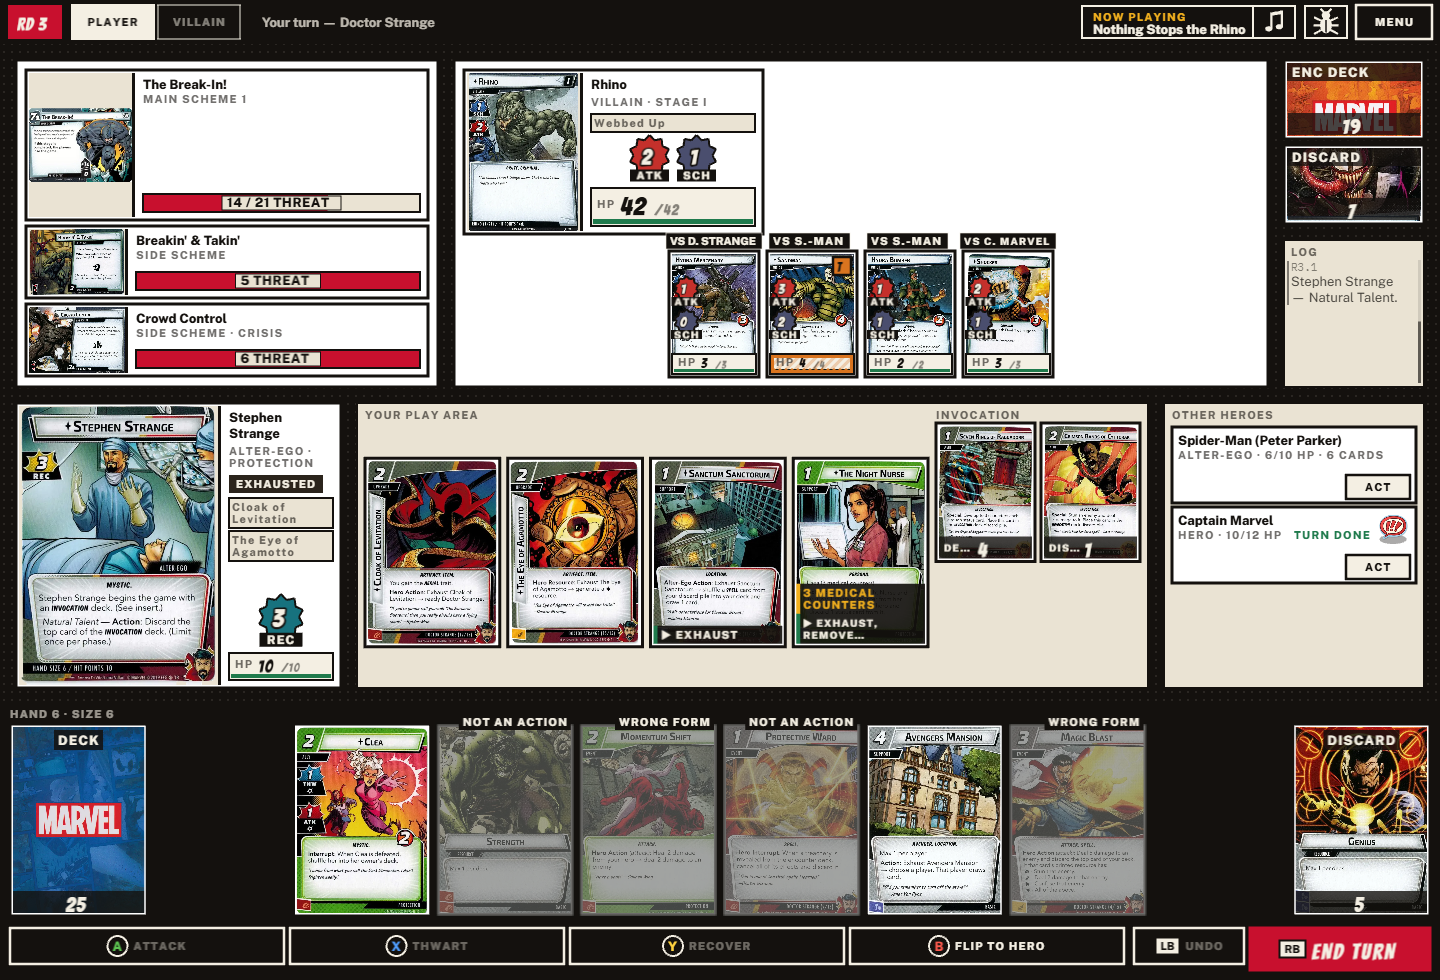
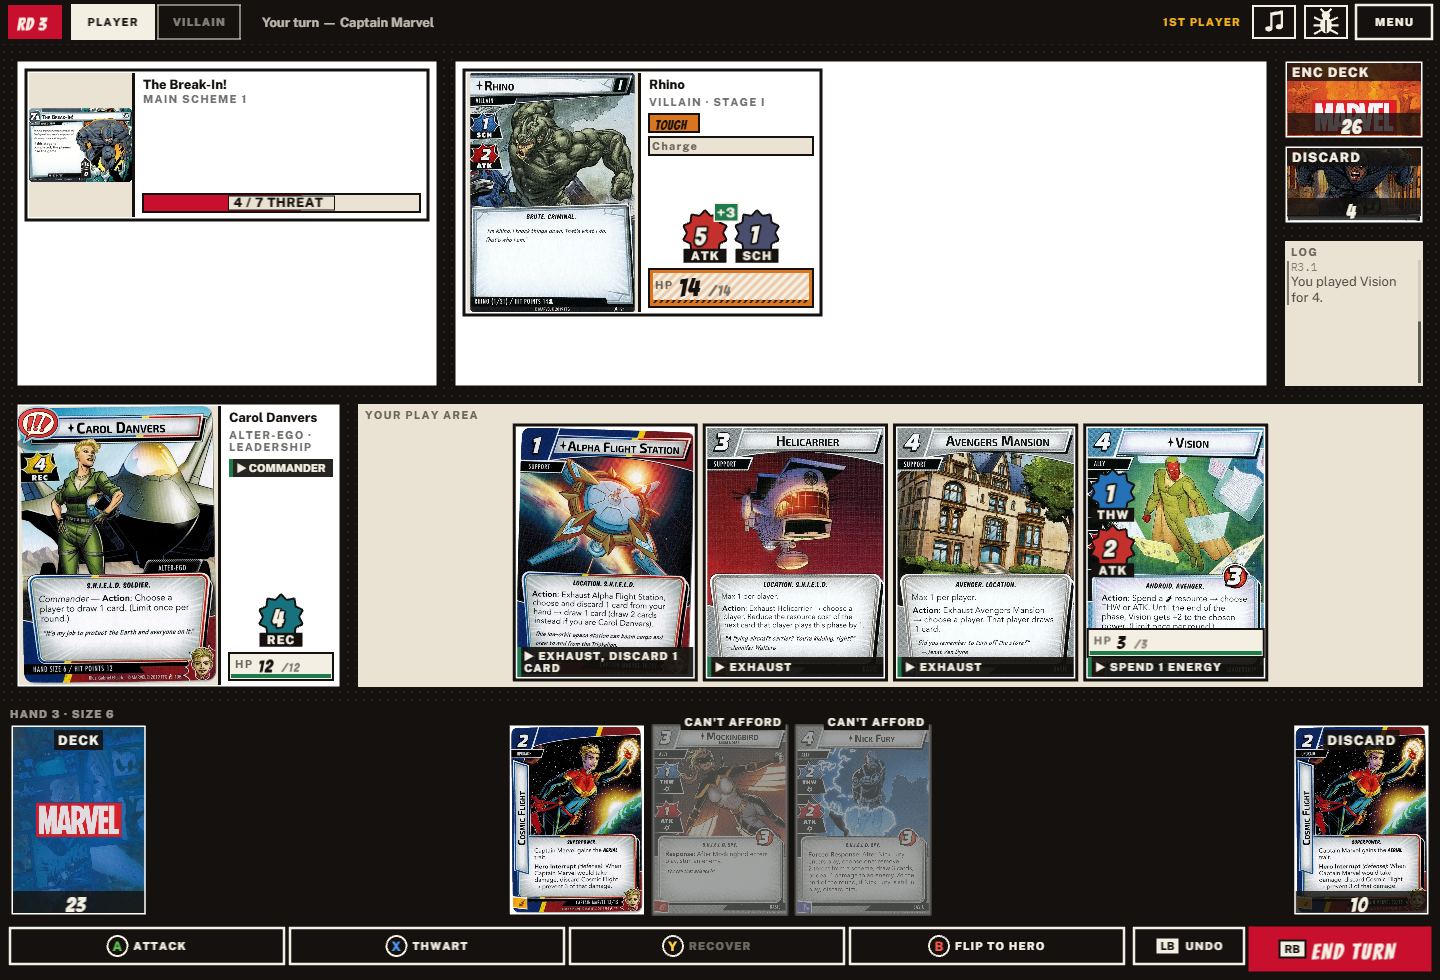
Dev fixture with five abilities in play; RT paging screenshots

diff --git a/packages/client/src/store/dev-many-abilities-game.ts b/packages/client/src/store/dev-many-abilities-game.ts
@@ -1,0 +1,94 @@
+/**
+ * The `?screen=board&fixture=abilities` dev jump (`scenes/boot-dev-jump.ts`): a real one-seat Rhino game stopped on
+ * Captain Marvel's own turn with five or more usable Action abilities on cards in play, so the pad's RT layer has a
+ * second page (A / X / Y / B take four, LB / RB turn the page). `dev-many-abilities-game.test.ts` proves it.
+ *
+ * Played forward through the store with `SessionConfig.stack` and the engine's own example commands, never a state
+ * edit. Each turn plays one of the wanted supports / allies paid for with the other cards in hand, then ends the turn.
+ */
+import type { GameState } from "@mc/engine";
+import type { SessionConfig } from "../engine/host.js";
+import { codeOf, ids, nextTurn } from "./dev-game-steps.js";
+import type { SessionStore } from "./session-store.js";
+
+/** Alpha Flight Station, Helicarrier, Avengers Mansion, Vision: each carries an Action the player can use. */
+const WANTED = new Set(["01015", "01092", "01091", "01068"]);
+/** Usable abilities needed before the game stops (the RT layer shows four a page). */
+export const MANY_ABILITIES = 5;
+
+export const MANY_ABILITIES_CONFIG: SessionConfig = {
+  scenarioId: "rhino",
+  difficulty: "standard",
+  players: [{ starterDeckId: "core-captain-marvel-leadership" }],
+  seed: 7,
+  stack: {
+    players: {
+      0: ids(
+        // Turn 1: Alpha Flight Station and Helicarrier, paid for with the four fillers.
+        "01015",
+        "01092",
+        "01012",
+        "01012",
+        "01012",
+        "01013",
+        // Turn 2: Avengers Mansion and an Energy Channel.
+        "01091",
+        "01018",
+        "01013",
+        "01013",
+        "01014",
+        "01014",
+        // Turn 3: Vision, if five are not usable yet.
+        "01068",
+        "01017",
+        "01017",
+        "01083",
+        "01084",
+        "01085",
+      ),
+    },
+    // Boost cards with no icons (Breakin' & Takin' and Hydra Mercenary reveals follow), so the scheme creeps slowly.
+    encounter: ids("01104", "01105", "01104", "01105"),
+  },
+};
+
+/** How many usable abilities the engine lists for the active player right now. */
+export const usableAbilityCount = (store: SessionStore): number => {
+  const actions = store.state.legal?.actions;
+  return actions?.kind === "turn" ? actions.legal.filter((entry) => entry.action.kind === "useAbility").length : 0;
+};
+
+/** The wanted cards in play (the stop condition and the test read the same thing). */
+export const wantedInPlay = (game: GameState): number =>
+  game.players[0]!.playArea.filter((id) => WANTED.has(codeOf(game, id))).length;
+
+/** Starts the game and plays it forward to Captain Marvel's turn with at least `MANY_ABILITIES` abilities usable. */
+export async function startManyAbilitiesGame(store: SessionStore): Promise<void> {
+  await store.start(MANY_ABILITIES_CONFIG);
+  for (let step = 0; step < 60; step++) {
+    const turn = await nextTurn(store);
+    const game = store.state.game;
+    if (!turn || !game) return;
+    if (usableAbilityCount(store) >= MANY_ABILITIES) return;
+    const me = game.players[0]!;
+    let played = false;
+    for (const entry of turn.legal) {
+      const action = entry.action;
+      if (action.kind !== "playCard" || entry.example.type !== "playCard") continue;
+      if (!WANTED.has(codeOf(game, action.instanceId))) continue;
+      // Pay with cards that are not wanted permanents first.
+      const others = me.hand
+        .filter((id) => id !== action.instanceId)
+        .sort((a, b) => Number(WANTED.has(codeOf(game, a))) - Number(WANTED.has(codeOf(game, b))));
+      for (let count = 0; count <= others.length && !played; count++) {
+        await store.dispatch({ ...entry.example, payment: others.slice(0, count).map((id) => ({ fromHand: id })) });
+        if (!store.state.error) played = true;
+      }
+      if (played) break;
+    }
+    if (played) continue;
+    const end = turn.legal.find((entry) => entry.action.kind === "endTurn");
+    if (!end) return;
+    await store.dispatch(end.example);
+  }
+}

diff --git a/packages/client/src/scenes/boot-dev-jump.ts b/packages/client/src/scenes/boot-dev-jump.ts
@@ -119,6 +119,28 @@ export async function devScreenJump(): Promise<{ readonly key: string; readonly 
   if (params.get("boardpad") === "1")
     notePadInput(detectPad("Xbox 360 Controller (STANDARD GAMEPAD Vendor: 045e Product: 028e)"));
   // `&padhold=lt|rt` (with `boardpad=1`): the board draws that hold layer's sheet as if the trigger were held.
+  // `&padfake=1`: a connected standard pad whose buttons the page can press, for screenshots of a held trigger and a
+  // bumper press: `__fakePad.buttons[7].value = 1` holds RT, `[5]` is RB (set `pressed` and `value`, then back).
+  if (params.get("padfake") === "1") {
+    const button = () => ({ pressed: false, touched: false, value: 0 });
+    const pad = {
+      connected: true,
+      id: "Xbox 360 Controller (STANDARD GAMEPAD Vendor: 045e Product: 028e)",
+      index: 0,
+      mapping: "standard",
+      timestamp: 0,
+      buttons: Array.from({ length: 17 }, button),
+      axes: [0, 0, 0, 0],
+    };
+    (globalThis as { __fakePad?: unknown }).__fakePad = pad;
+    Object.defineProperty(navigator, "getGamepads", {
+      value: () => {
+        pad.timestamp = performance.now();
+        return [pad];
+      },
+      configurable: true,
+    });
+  }
   const padHold = params.get("padhold");
   if (padHold === "lt" || padHold === "rt") (globalThis as { __devPadHold?: string }).__devPadHold = padHold;
 
@@ -375,6 +397,17 @@ export async function devScreenJump(): Promise<{ readonly key: string; readonly 
     if (!gameRunning(store)) {
       const { startCrowdedGame } = await import("../store/dev-crowded-game.js");
       await startCrowdedGame(store);
+    }
+    return { key: SCENES.board, data: {} };
+  }
+
+  // `&fixture=abilities`: Captain Marvel's turn with five or more usable abilities on the table, so the pad's RT layer
+  // has a second page (`store/dev-many-abilities-game.ts`).
+  if (screen === "board" && params.get("fixture") === "abilities") {
+    const { store } = appSession();
+    if (!gameRunning(store)) {
+      const { startManyAbilitiesGame } = await import("../store/dev-many-abilities-game.js");
+      await startManyAbilitiesGame(store);
     }
     return { key: SCENES.board, data: {} };
   }

diff --git a/packages/client/src/store/dev-many-abilities-game.test.ts b/packages/client/src/store/dev-many-abilities-game.test.ts
@@ -1,0 +1,16 @@
+import { describe, expect, test } from "vitest";
+import { LocalEngineHost } from "../engine/local-host.js";
+import { MANY_ABILITIES, startManyAbilitiesGame, usableAbilityCount, wantedInPlay } from "./dev-many-abilities-game.js";
+import { SessionStore } from "./session-store.js";
+
+describe("the many-abilities dev game", () => {
+  test("Captain Marvel's turn with five or more usable abilities on the table", async () => {
+    const store = new SessionStore(new LocalEngineHost());
+    await startManyAbilitiesGame(store);
+    expect(store.state.error).toBeNull();
+    const game = store.state.game!;
+    expect(store.state.legal?.playerId).toBe(game.players[0]!.playerId);
+    expect(wantedInPlay(game)).toBeGreaterThanOrEqual(3);
+    expect(usableAbilityCount(store)).toBeGreaterThanOrEqual(MANY_ABILITIES);
+  }, 120_000);
+});
